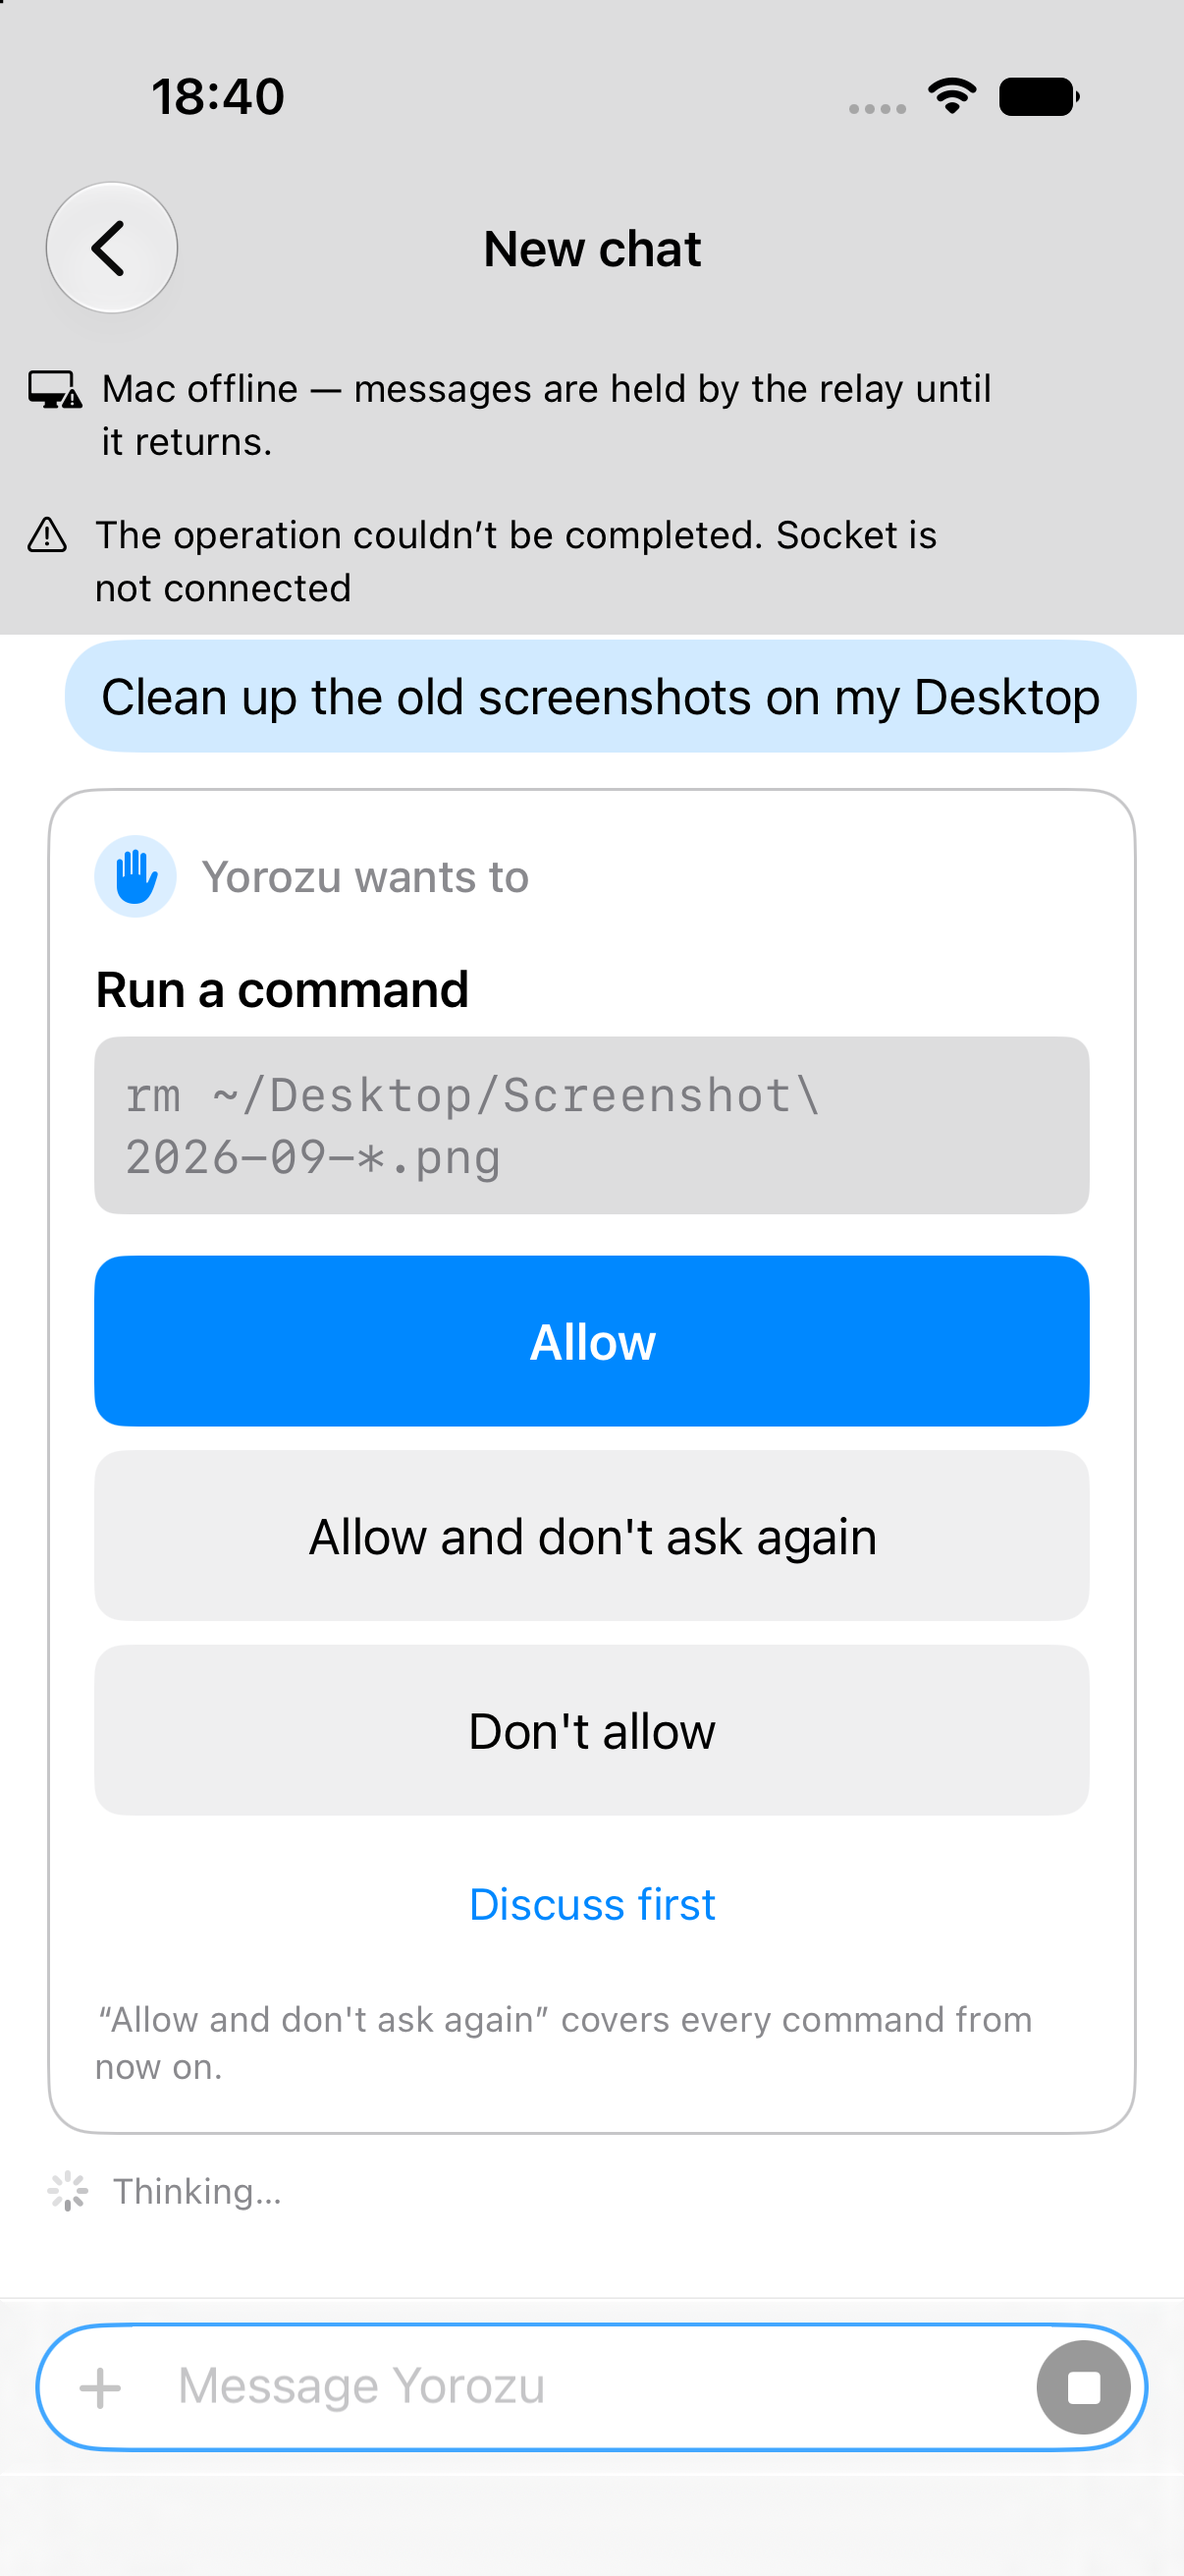
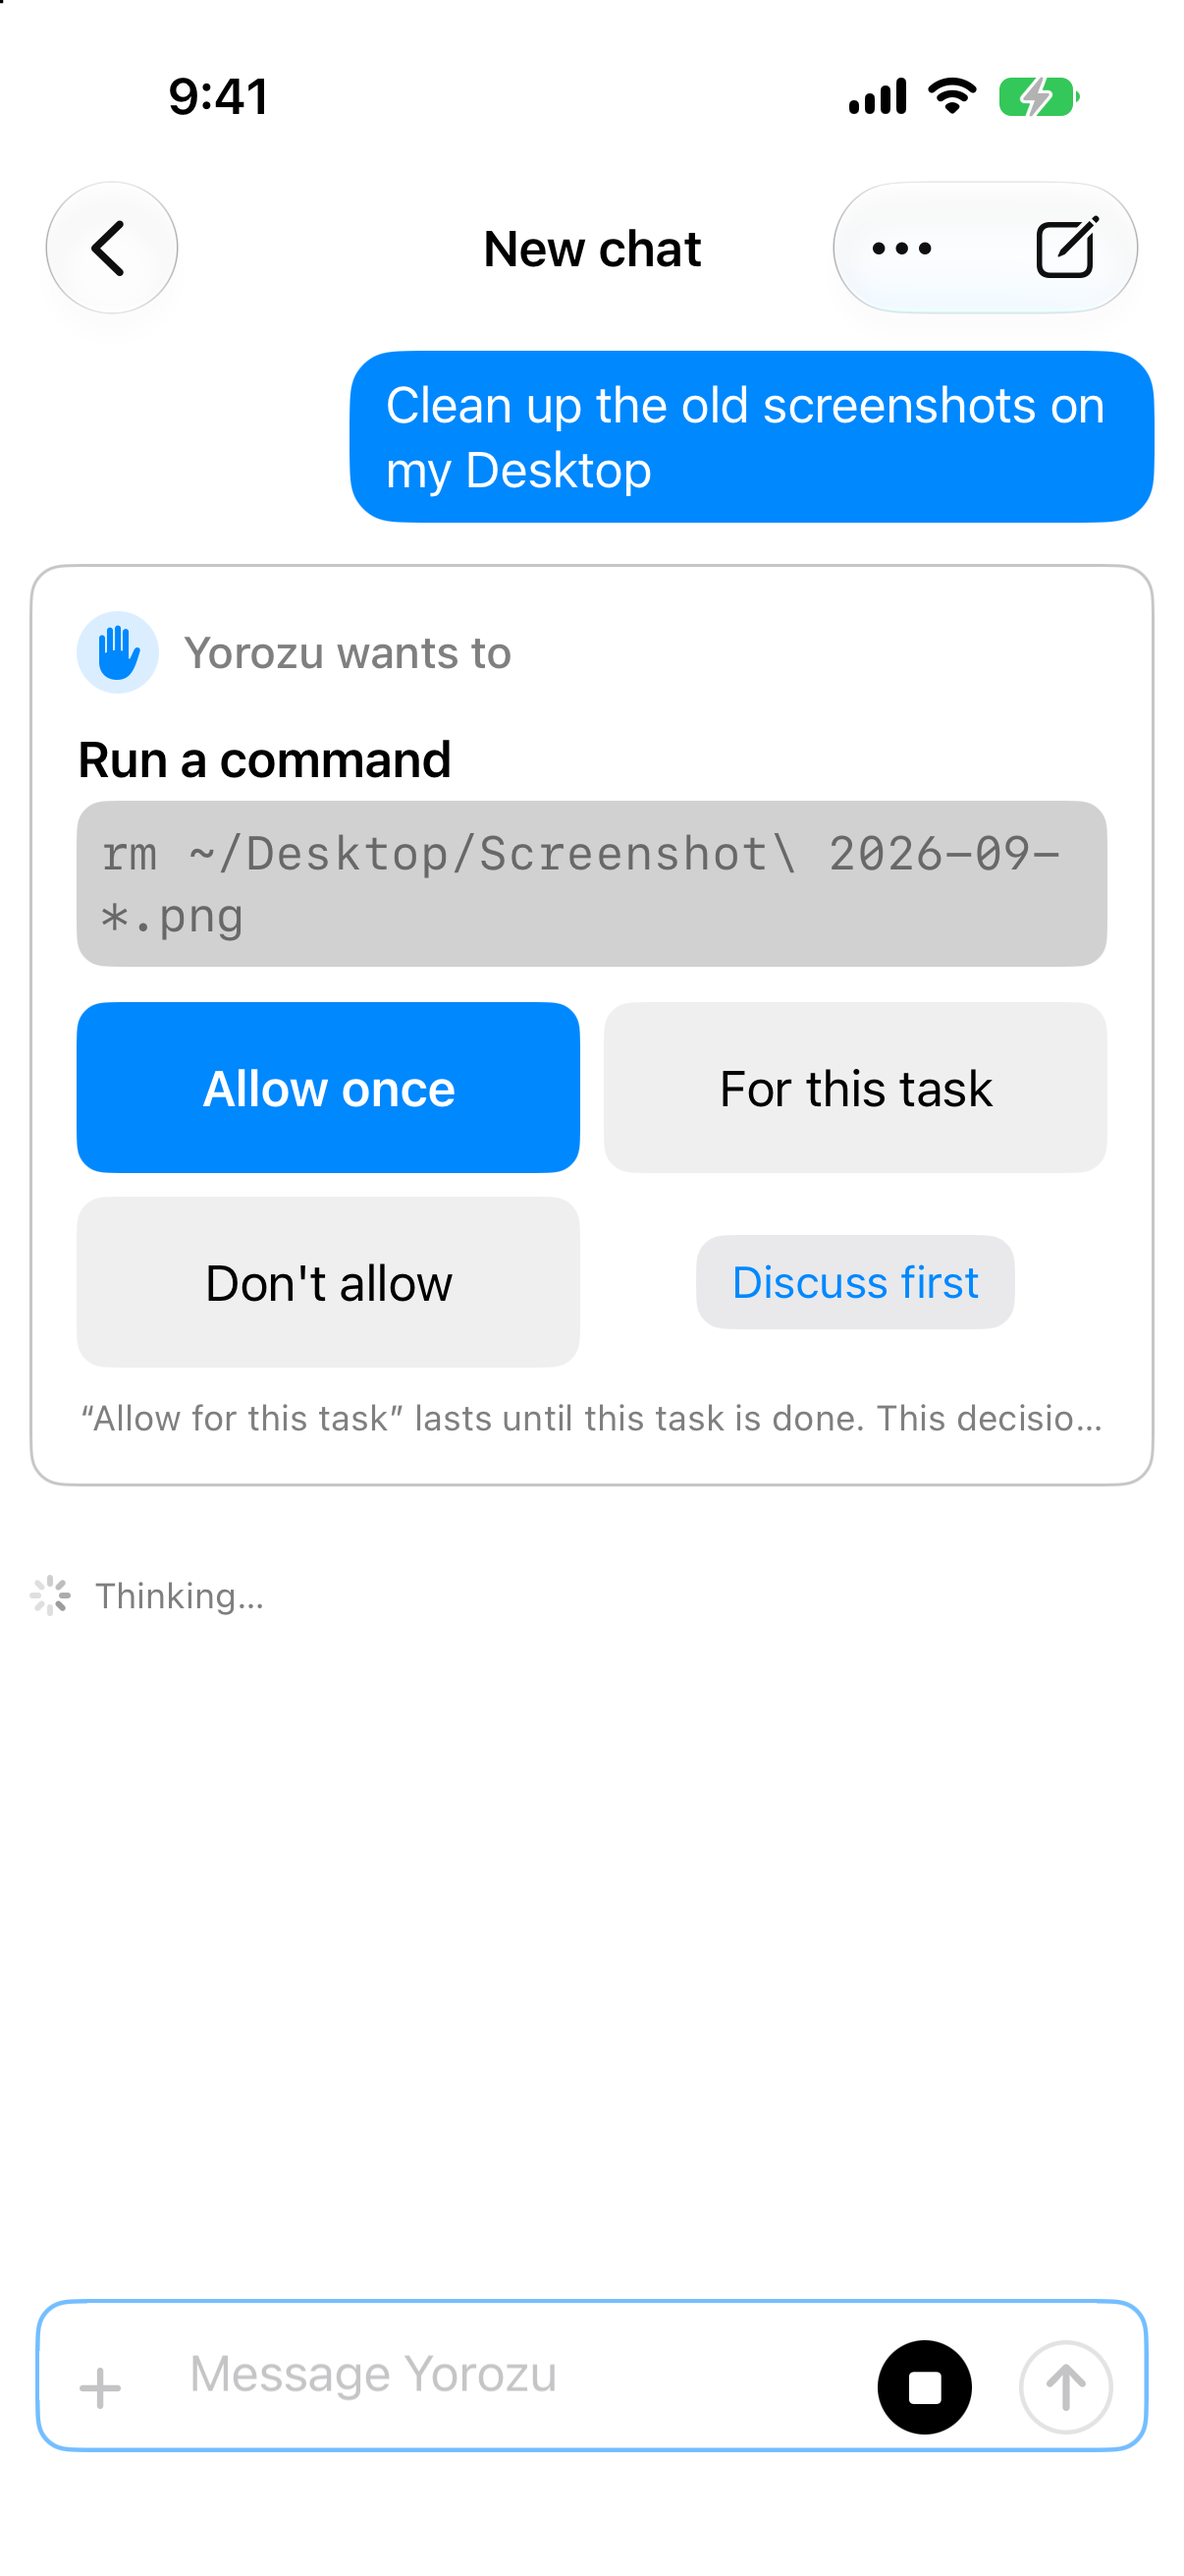
feat(ui): converge Compact Quiet with design boards

diff --git a/packages/shared-swift/Sources/YorozuShared/ChatView.swift b/packages/shared-swift/Sources/YorozuShared/ChatView.swift
@@ -35,9 +35,7 @@ public struct ChatView: View {
     /// The message being replied to, quoted above the field until it is sent or dismissed.
     @State private var replyQuote: String?
     @State private var searching = false
-    /// Screenshot only: draws the model menu's own contents as a popover, because nothing on a
-    /// simulator can open a real menu. See ``ChatShowcase``.
-    @State private var modelShowcase = ChatShowcase.modelMenu
+    @State private var choosingRunSettings = ChatShowcase.modelMenu
     @State private var search = ""
     /// Which hit the arrows are on. Reset whenever the term changes.
     @State private var hit = 0
@@ -150,22 +148,8 @@ public struct ChatView: View {
                 ToolbarItem(placement: .primaryAction) {
                     Menu("More", systemImage: "ellipsis") {
                         Button("Find in thread", systemImage: "magnifyingglass") { searching = true }
-                        Menu("Model", systemImage: "cpu") { modelPicker }
-                            .disabled(model.models.isEmpty)
-                        Menu("Effort", systemImage: "gauge.with.dots.needle.33percent") {
-                            effortPicker
-                        }
-                    }
-                }
-            #endif
-            #if os(macOS)
-                ToolbarItem(placement: .primaryAction) {
-                    Menu("More", systemImage: "ellipsis") {
-                        Button("Find in thread", systemImage: "magnifyingglass") { searching = true }
-                        Menu("Model", systemImage: "cpu") { modelPicker }
-                            .disabled(model.models.isEmpty)
-                        Menu("Effort", systemImage: "gauge.with.dots.needle.33percent") {
-                            effortPicker
+                        Button("Model and effort", systemImage: "slider.horizontal.3") {
+                            choosingRunSettings = true
                         }
                     }
                 }
@@ -180,9 +164,24 @@ public struct ChatView: View {
         }
         // Screenshot only: the menu's own choices, raised far enough down the screen that the
         // caption they set is in the same picture. Nothing on a simulator can open a real menu.
-        .sheet(isPresented: $modelShowcase) {
-            List { modelPicker }.presentationDetents([.fraction(0.45)])
-        }
+        #if os(iOS)
+            .sheet(isPresented: $choosingRunSettings) {
+                NavigationStack {
+                    Form {
+                        Section("Model") { modelPicker }
+                        Section("Effort") { effortPicker }
+                    }
+                    .navigationTitle("Run settings")
+                    .navigationBarTitleDisplayMode(.inline)
+                    .toolbar {
+                        ToolbarItem(placement: .confirmationAction) {
+                            Button("Done") { choosingRunSettings = false }
+                        }
+                    }
+                }
+                .presentationDetents([.medium, .large])
+            }
+        #endif
         // Opened from the magnifier rather than always on show: a thread is for reading, and
         // a permanent search field would be one more thing to read past — and on iOS 26 it
         // would be one more bar under the composer, which already owns the bottom of a chat.
@@ -1250,7 +1249,11 @@ extension View {
                 prompt: "Find in thread"
             )
         #else
-            searchable(text: text, isPresented: presented, prompt: "Find in thread")
+            if presented.wrappedValue {
+                searchable(text: text, isPresented: presented, prompt: "Find in thread")
+            } else {
+                self
+            }
         #endif
     }
 

diff --git a/packages/shared-swift/Sources/YorozuShared/ToolRowView.swift b/packages/shared-swift/Sources/YorozuShared/ToolRowView.swift
@@ -100,9 +100,9 @@ public struct ToolRowView: View {
 
             if expanded { details }
         }
-        .padding(LayoutMetrics.inner)
+        .padding(.vertical, LayoutMetrics.inner)
         .frame(maxWidth: .infinity, alignment: .leading)
-        .background(.quaternary, in: RoundedRectangle(cornerRadius: LayoutMetrics.controlRadius, style: .continuous))
+        .overlay(alignment: .bottom) { Divider() }
     }
 
     private var header: some View {
@@ -150,37 +150,38 @@ public struct ToolRowView: View {
     }
 
     @ViewBuilder private var details: some View {
-        Divider()
-        if !activity.argsDetail.isEmpty {
-            Text(activity.argsDetail)
-                .font(.caption.monospaced())
-                .foregroundStyle(.secondary)
-                .textSelection(.enabled)
-                .frame(maxWidth: .infinity, alignment: .leading)
-        }
-        if let output = activity.output, !output.isEmpty {
+        VStack(alignment: .leading, spacing: LayoutMetrics.tight) {
+            if !activity.argsDetail.isEmpty {
+                Text(activity.argsDetail)
+                    .font(.caption.monospaced())
+                    .foregroundStyle(.secondary)
+                    .textSelection(.enabled)
+                    .frame(maxWidth: .infinity, alignment: .leading)
+            }
+            if let output = activity.output, !output.isEmpty {
             // The first lines sit in the thread and scroll with it — a scroll view inside one
             // is a thing to fight with on a phone. Only "Show all" makes one, because that is
             // the case where the row would otherwise be as tall as the file.
-            if showingAll {
-                ScrollView {
+                if showingAll {
+                    ScrollView { body(of: output) }
+                        .frame(maxHeight: Self.maxOutputHeight)
+                } else {
                     body(of: output)
-                }
-                .frame(maxHeight: Self.maxOutputHeight)
-            } else {
-                body(of: output)
-                if lineCount(output) > Self.previewLines {
-                    Button("Show all \(lineCount(output)) lines") {
-                        withAnimation(.snappy) { showingAll = true }
+                    if lineCount(output) > Self.previewLines {
+                        Button("Show all \(lineCount(output)) lines") {
+                            withAnimation(.snappy) { showingAll = true }
+                        }
+                        .font(.caption)
+                        .buttonStyle(.plain)
+                        .foregroundStyle(.tint)
                     }
-                    .font(.caption)
-                    .buttonStyle(.plain)
-                    .foregroundStyle(.tint)
                 }
+            } else if !activity.running {
+                Text("No output.").font(.caption).foregroundStyle(.tertiary)
             }
-        } else if !activity.running {
-            Text("No output.").font(.caption).foregroundStyle(.tertiary)
         }
+        .padding(LayoutMetrics.inner)
+        .background(.quaternary, in: RoundedRectangle(cornerRadius: LayoutMetrics.controlRadius, style: .continuous))
     }
 
     /// What the tool printed: a coloured diff when that is what it is, and monospaced text

diff --git a/packages/shared-swift/Sources/YorozuShared/ApprovalCardView.swift b/packages/shared-swift/Sources/YorozuShared/ApprovalCardView.swift
@@ -244,8 +244,10 @@ public struct ApprovalCardView: View {
                     choice(.no, "Don't allow", prominent: false)
                 }
             #else
-                choice(.yes, "Allow once", prominent: true)
-                choice(.task, "Allow for this task", prominent: false)
+                HStack(spacing: LayoutMetrics.inner) {
+                    choice(.yes, "Allow once", prominent: true)
+                    choice(.task, "For this task", prominent: false)
+                }
             #endif
             // A grant that ends with the turn, so it is offered wherever a card is — but it
             // has nothing to promise about the actions no rule may stand in for either.
@@ -263,14 +265,24 @@ public struct ApprovalCardView: View {
                 .accessibilityHint("Opens a rule you can widen before saving")
             }
             #if !os(macOS)
-                choice(.no, "Don't allow", prominent: false)
+                HStack(spacing: LayoutMetrics.inner) {
+                    choice(.no, "Don't allow", prominent: false)
+                    Button("Discuss first") { answer(.discuss, nil) }
+                        .font(.subheadline)
+                        .buttonStyle(.bordered)
+                        .frame(maxWidth: .infinity, minHeight: controlTarget)
+                        .buttonBorderShape(.roundedRectangle(radius: LayoutMetrics.controlRadius))
+                        .accessibilityHint("Ask Yorozu to explain before deciding")
+                }
             #endif
-            Button("Discuss first") { answer(.discuss, nil) }
-                .font(.subheadline)
-                .buttonStyle(.plain)
-                .foregroundStyle(.tint)
-                .frame(minHeight: controlTarget)
-                .accessibilityHint("Ask Yorozu to explain before deciding")
+            #if os(macOS)
+                Button("Discuss first") { answer(.discuss, nil) }
+                    .font(.subheadline)
+                    .buttonStyle(.plain)
+                    .foregroundStyle(.tint)
+                    .frame(minHeight: controlTarget)
+                    .accessibilityHint("Ask Yorozu to explain before deciding")
+            #endif
             Text(grantNote)
                 .font(.caption)
                 .foregroundStyle(.secondary)

diff --git a/apps/mac/Sources/YorozuMac/ChatWindowView.swift b/apps/mac/Sources/YorozuMac/ChatWindowView.swift
@@ -114,7 +114,7 @@ struct ChatWindowView: View {
             .fixedSize()
             Spacer(minLength: 0)
             Label {
-                Text(session.role == .host ? Sidecar.shared.state : connectionLabel)
+                Text(connectionLabel)
             } icon: {
                 Image(systemName: model.state == .paired ? "circle.fill" : "circle.dotted")
                     .font(.system(size: 7))
@@ -132,9 +132,9 @@ struct ChatWindowView: View {
 
     private var connectionLabel: String {
         switch model.state {
-        case .paired: "connected"
-        case .connecting, .joined: "connecting"
-        case .closed: "offline"
+        case .paired: "Connected"
+        case .connecting, .joined: "Connecting"
+        case .closed: "Offline"
         }
     }
 }
@@ -144,7 +144,7 @@ struct ChatWindowView: View {
 /// menu both find them.
 struct SettingsView: View {
     private enum SettingsSection: String, CaseIterable, Identifiable {
-        case general, devices, permissions, providers, models, browser, approvals, rules
+        case general, devices, permissions, providers, approvals, rules
 
         var id: Self { self }
         var presentation: (title: String, symbol: String) {
@@ -153,8 +153,6 @@ struct SettingsView: View {
             case .devices: ("Devices", "iphone.and.arrow.forward")
             case .permissions: ("Permissions", "lock.shield")
             case .providers: ("Providers", "point.3.connected.trianglepath.dotted")
-            case .models: ("Models", "cpu")
-            case .browser: ("Browser", "globe")
             case .approvals: ("Approvals", "hand.raised")
             case .rules: ("Rules", "checklist")
             }
@@ -206,9 +204,12 @@ struct SettingsView: View {
         case .general: GeneralView()
         case .devices: DevicesView(sidecar: sidecar)
         case .permissions: PermissionsView(showsTitle: false)
-        case .providers: ProvidersView()
-        case .models: ModelsView()
-        case .browser: BrowserView()
+        case .providers:
+            ProvidersView()
+            Divider().padding(.vertical, 4)
+            ModelsView()
+            Divider().padding(.vertical, 4)
+            BrowserView()
         case .approvals: ApprovalFloorView()
         case .rules: RulesView()
         }

diff --git a/apps/mac/Sources/YorozuMac/Onboarding.swift b/apps/mac/Sources/YorozuMac/Onboarding.swift
@@ -27,8 +27,8 @@ struct OnboardingView: View {
             case .success: success
             }
         }
-        .padding(28)
-        .frame(width: 560, height: 540)
+        .padding(24)
+        .frame(width: 520, height: 520)
         .animation(reduceMotion ? nil : .easeOut(duration: 0.2), value: step)
         .onChange(of: session.model.state) { _, state in
             if step == .clientPair, state == .paired { step = .success }
@@ -75,11 +75,7 @@ struct OnboardingView: View {
             .contentShape(Rectangle())
         }
         .buttonStyle(.plain)
-        .background(.quaternary.opacity(0.35), in: RoundedRectangle(cornerRadius: 10))
-        .overlay {
-            RoundedRectangle(cornerRadius: 10)
-                .stroke(.separator.opacity(0.65), lineWidth: 1)
-        }
+        .background(.quaternary.opacity(0.55), in: RoundedRectangle(cornerRadius: 10))
     }
 
     private var hostPairing: some View {
@@ -174,7 +170,7 @@ enum OnboardingWindow {
     static func show() {
         if window == nil {
             let panel = NSWindow(
-                contentRect: NSRect(x: 0, y: 0, width: 560, height: 540),
+                contentRect: NSRect(x: 0, y: 0, width: 520, height: 520),
                 styleMask: [.titled, .closable], backing: .buffered, defer: false
             )
             panel.title = "Yorozu Setup"

diff --git a/apps/ios/Sources/YorozuIOS/E2EHarness.swift b/apps/ios/Sources/YorozuIOS/E2EHarness.swift
@@ -67,6 +67,15 @@ final class E2EHarness {
             break
         case "threads":
             model.previewThreads()
+        case "chat":
+            let seed = { [weak model] in
+                model?.previewThreads()
+                guard let thread = model?.threads.first?.id else { return }
+                model?.previewChat(in: thread)
+                model?.previewModels(in: thread)
+            }
+            seed()
+            model.onThreads = seed
         case "activity":
             model.previewThreads()
             model.previewActivity(in: model.threads[0].id)

diff --git a/packages/shared-swift/Sources/YorozuShared/MessageBubble.swift b/packages/shared-swift/Sources/YorozuShared/MessageBubble.swift
@@ -111,8 +111,9 @@ public struct MessageBubble: View {
                 AttachmentsView(attachments: data.attachments)
             }
             if (!data.text.isEmpty || streaming), !isUser {
-                Text("Yorozu")
+                Text("YOROZU")
                     .font(.caption2.weight(.semibold))
+                    .tracking(0.5)
                     .foregroundStyle(.tertiary)
                     .accessibilityHidden(true)
             }
